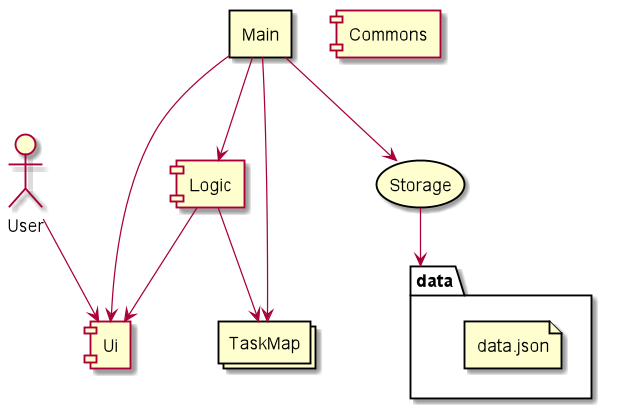
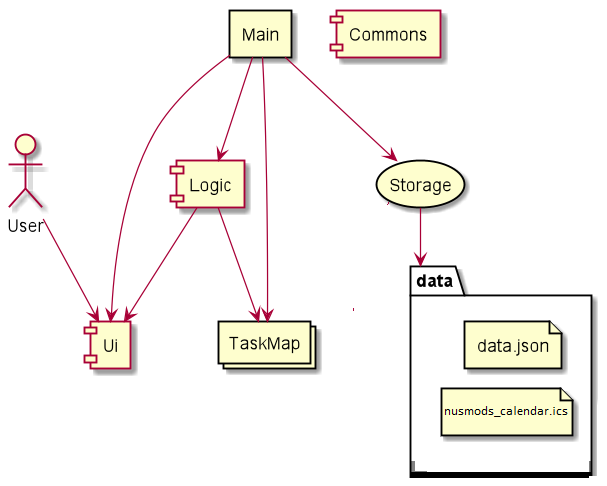
Made changes to code structure and added PPP.

diff --git a/src/main/java/seedu/storage/Storage.java b/src/main/java/seedu/storage/Storage.java
@@ -5,7 +5,6 @@ import com.google.gson.reflect.TypeToken;
 import seedu.data.TaskMap;
 import seedu.exceptions.InvalidDatetimeException;
 import seedu.exceptions.InvalidReminderException;
-import seedu.parser.CalParser;
 import seedu.task.Priority;
 import seedu.task.Task;
 
@@ -17,6 +16,7 @@ import java.lang.reflect.Type;
 import java.text.ParseException;
 import java.time.LocalDate;
 import java.time.LocalTime;
+import java.time.format.DateTimeFormatter;
 import java.util.ArrayList;
 import java.text.DateFormat;
 import java.text.SimpleDateFormat;
@@ -112,7 +112,7 @@ public class Storage {
         Priority priority;
         if (dirFile.isDirectory()) {
             File calfile = new File(DIRECTORY_NAME + "/" + TIMETABLE);
-            String output = CalParser.lineExtractor(calfile);
+            String output = lineExtractor(calfile);
             String[] splitInputs = output.split("UID:");
             LocalTime startTime;
             LocalTime endTime;
@@ -124,7 +124,7 @@ public class Storage {
             String taskDescription;
             for (int i = 1; i < splitInputs.length; i++) {
                 if (splitInputs[i].contains("RRULE:")) {
-                    repeatCount = CalParser.countExtractor(splitInputs[i]);
+                    repeatCount = countExtractor(splitInputs[i]);
                 } else {
                     repeatCount = 1;
                 }
@@ -133,10 +133,10 @@ public class Storage {
                 } else {
                     priority = Priority.MEDIUM;
                 }
-                taskDescription = CalParser.descriptionExtractor(splitInputs[i]);
-                exceptionDates = CalParser.exceptionExtractor(splitInputs[i]);
-                dates = CalParser.dateExtractor(splitInputs[i], repeatCount);
-                taskDuration = CalParser.timeExtractor(splitInputs[i]);
+                taskDescription = descriptionExtractor(splitInputs[i]);
+                exceptionDates = exceptionExtractor(splitInputs[i]);
+                dates = dateExtractor(splitInputs[i], repeatCount);
+                taskDuration = timeExtractor(splitInputs[i]);
                 startTime = taskDuration[0];
                 endTime = taskDuration[1];
                 taskPrinter(taskMap, dates, startTime, endTime, taskDescription, repeatCount, priority);
@@ -224,5 +224,99 @@ public class Storage {
                 taskMap.addTask(tempTask);
             }
         }
+    }
+    public static String lineExtractor(File textFile) throws IOException {
+        Scanner myReader = new Scanner(textFile);
+        String taskData = "";
+        while (myReader.hasNextLine()) {
+            taskData += ("\n" + myReader.nextLine());
+        }
+        return taskData;
+    }
+
+
+    public static int countExtractor(String splitted) {
+        String[] splitCount = splitted.split("COUNT=");
+        String[] lineSplit = splitCount[1].split(";");
+        int count = Integer.parseInt(lineSplit[0]);
+        return count;
+    }
+
+    public static String descriptionExtractor(String splitted) {
+        String[] splitCount = splitted.split("SUMMARY:");
+        String[] lineSplit = splitCount[1].split("\n");
+        return lineSplit[0];
+    }
+    public static ArrayList<LocalDate> exceptionExtractor(String splitted) throws ParseException {
+        ArrayList<LocalDate> exceptionDates = new ArrayList<LocalDate>();
+        String[] splitCount = splitted.split("\n");
+        for (String i : splitCount) {
+            if (i.contains("EXDATE:")) {
+                String exDate;
+                exDate = i.split("EXDATE:")[1];
+                LocalDate startDate = LocalDate.parse(exDate, DateTimeFormatter.ofPattern("yyyyMMdd'T'HHmmss'Z'"));
+                exceptionDates.add(startDate);
+            }
+        }
+        return exceptionDates;
+    }
+
+    public static ArrayList<LocalDate> dateExtractor(String splitString, int count) throws ParseException {
+        String[] splitCount = splitString.split("\n");
+        ArrayList<LocalDate> dates = new ArrayList<LocalDate>();
+        int tempIndex = 0;
+        LocalDate startDate;
+        for (String i : splitCount) {
+            if (i.contains("DTSTART:")) {
+                String exDate;
+                exDate = i.split("DTSTART:")[1];
+                startDate = LocalDate.parse(exDate, DateTimeFormatter.ofPattern("yyyyMMdd'T'HHmmss'Z'"));
+                dates.add(startDate);
+                tempIndex++;
+            }
+        }
+        for (int i = 1; i < count; i++) {
+            LocalDate nextWeekDate = dates.get(i - 1).plusDays(7);
+            boolean isNotException = exceptionChecker(dates, nextWeekDate);
+            if (isNotException) {
+                dates.add(nextWeekDate);
+                tempIndex++;
+            }
+        }
+        return dates;
+    }
+
+    public static boolean exceptionChecker(ArrayList<LocalDate> exceptionDates, LocalDate nextWeekDate)
+            throws ParseException {
+        for (LocalDate i : exceptionDates) {
+            if (i.isEqual(nextWeekDate)) {
+                return false;
+            }
+        }
+        return true;
+    }
+
+    public static LocalTime[] timeExtractor(String splitted) throws ParseException {
+        LocalTime startTime;
+        LocalTime endTime;
+        LocalTime[] taskDuration = new LocalTime[2];
+        String[] splitCount = splitted.split("\n");
+        for (String i : splitCount) {
+            if (i.contains("DTSTART:")) {
+                String exDate;
+                exDate = i.split("DTSTART:")[1];
+                LocalTime gmtTime = LocalTime.parse(exDate, DateTimeFormatter.ofPattern("yyyyMMdd'T'HHmmss'Z'"));
+                startTime = (gmtTime).plusHours(8);
+                taskDuration[0] = startTime;
+            }
+            if (i.contains("DTEND:")) {
+                String exDate;
+                exDate = i.split("DTEND:")[1];
+                LocalTime gmtTime = LocalTime.parse(exDate, DateTimeFormatter.ofPattern("yyyyMMdd'T'HHmmss'Z'"));
+                endTime = (gmtTime).plusHours(8);
+                taskDuration[1] = endTime;
+            }
+        }
+        return taskDuration;
     }
 }

diff --git a/docs/team/johndoe.md b/docs/team/johndoe.md
@@ -1,6 +1,37 @@
-# John Doe - Project Portfolio Page
+---
+Arindam Shiva Tripathi’s Project Portfolio Page
+---
 
-## Overview
+## Project: PlaNUS
+
+Listed below are my contributions to this team project
+
+* **New Features**: Added the ability to search for tasks. [\#31](https://github.com/AY2021S1-CS2113T-W12-1/tp/pull/31)
+  * What it does: Allows the user to search for tasks by using keywords from the description
+   of the task
+  * Justification: By using this feature a user can effectively search for their tasks and
+   won't spend too long searching for tasks in  the list.
+  * Highlights: -
+  * Credits: -
+* **New Features**: Added the ability to import their timetable from NUSMODS. [\#116](https://github.com/AY2021S1-CS2113T-W12-1/tp/pull/116)
+  * What it does: Allows the user to basically import their NUSMods Timetable into the PlaNUS program.
+  * Justification: Allows the user to import their timetable into the PlaNUS program. 
+  Hence, the user will be able to easily access all the class timings as well as exam timings without needing to leave the program.
+  * Highlights: -
+  * Credits: -
+
+* **Code contributed**: [RepoSense link]( https://nus-cs2113-ay2021s1.github.io/tp-dashboard/#breakdown=true&search=arindamshivatrip&sort=groupTitle&sortWithin=title&since=2020-09-27&timeframe=commit&mergegroup=&groupSelect=groupByRepos&tabOpen=true&zFR=false&checkedFileTypes=docs~functional-code~test-code~other&tabType=zoom&zA=arindamshivatrip&zR=AY2021S1-CS2113T-W12-1%2Ftp%5Bmaster%5D&zACS=118.75&zS=2020-09-27&zFS=arindamshivatrip&zU=2020-11-09&zMG=false&zFTF=commit&zFGS=groupByRepos)
 
 
-### Summary of Contributions
+* **Enhancements to existing features**:
+  * Fixed a bug early on in the development of the program where the program would accept blank descriptions.
+   [\#31](https://github.com/AY2021S1-CS2113T-W12-1/tp/pull/31)
+)
+
+
+* **Documentation**:
+
+  * User Guide:
+    *  Added some changes to the UG for user understanding based on the feedback received during bug testing.
+         [\#116]   [\#31](https://github.com/AY2021S1-CS2113T-W12-1/tp/pull/116)
+* I added the search feature, but it was further maintained and updated by my teammates. 

diff --git a/docs/DeveloperGuide.md b/docs/DeveloperGuide.md
@@ -29,7 +29,10 @@ with each other in the app.
 
 As the app starts, the main program initialises the Ui, Logic and Storage components.
 Then, the Storage component reads existing data file if it is available, else a fresh copy of 
-data file is created. This step also initialises the content of runtime storage which is store 
+data file is created.The storage component also reads the .ics file that has the user's timetable and
+if it exists imports all the tasks into the TaskMap object. If it does not exist then a warning error
+is given. 
+This step also initialises the content of runtime storage which is store 
 in a TaskMap object.
 
 Now the Ui component is ready to take inputs from the User, and the input is processed and executed
@@ -46,7 +49,7 @@ The sequence diagrams below shows a typical workflow the program.
 
 At the start of the app, tasks are loaded using loadTasks function from Storage class, 
 and writeTasksToFile function is called when the program stops. 
-
+Also at the 
 
 ![ComponentsSeq](diagrams/ComponentsSeq.png)
 
@@ -172,6 +175,7 @@ and these classes are stored in the seedu.commons package.
 |v2.0|Busy student|view tasks in a weekly and monthly view|I know what i have due for that time period|
 |v2.0|Lazy student|revert operation|easily undo if delete all tasks accidentally|
 |v2.0|Forgetful student|be reminded of important tasks|attend the event on time|
+|v2.0|Busy student|View my timetable with my tasks|I know when I have to attend lecture.|
 
 ## Use cases
 

diff --git a/docs/UserGuide.md b/docs/UserGuide.md
@@ -1,4 +1,7 @@
+![layout_labelled](images/logo.png)
+--
 # User Guide
+
 - [What is PlaNUS](#what-is-planus)
 - [About this document](#about-this-document)
 - [Quick start](#quick-start)
